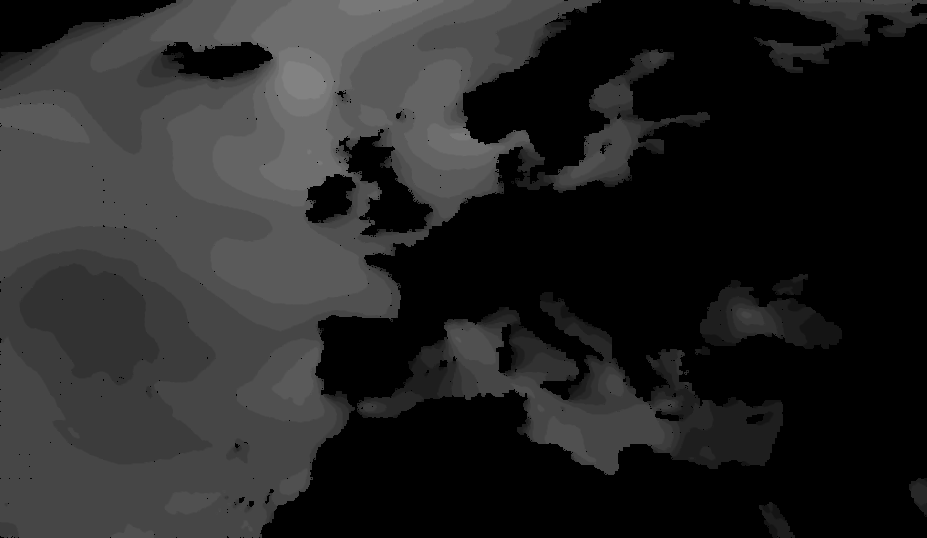
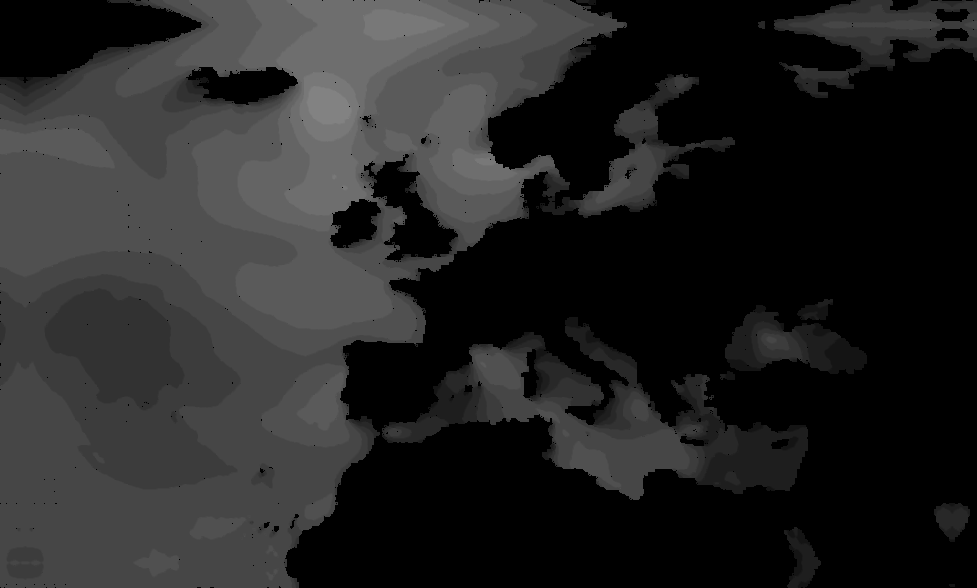
used linear_ramp padding for the plot

diff --git a/plot.py b/plot.py
@@ -13,6 +13,7 @@ def build_scale(raw):
     out = []
     out_temp = []
     r_last = [-1,-1,-1]
+
     for r in raw:
         # filter out black and white and check RGB not same as last
         if (not all(r > 250)
@@ -22,13 +23,18 @@ def build_scale(raw):
                 out_temp = r.copy()
             else: 
                 out_temp = np.vstack((out_temp,r))
+
             if len(out_temp) > len(out): 
                 out = out_temp.copy()
             r_last = r.copy()
             bw_count = 0
+
         elif all(r > 250) or all(r < 5):
             bw_count += 1
+
     return out
+
+
 def lrtb(image):
     # input: np array (x,y,3) - image with a black/white border
     # output: integers (4)    - top, bottom, left, right of the colorful area
@@ -50,14 +56,22 @@ def lrtb(image):
                 end = be
                 begin = temp
         return [begin + offset, end + offset]
+    
+
     mask = np.zeros_like(image[:,:,0]).astype(bool)
+
     for i in range(3):
         mask = mask + np.multiply(image[:,:,i] > 10, image[:,:,i] < 245)
+
     l, r, t, b = 0, len(mask[0,:]) - 1, 0, len(mask[:,0]) - 1
+
     for i in range(3):
         [l,r] = bound(mask[t:b+1,l:r+1],l)
         [t,b] = bound(mask[t:b+1,l:r+1].T,t)
+
     return [l,r,t,b]
+
+
 def edge_mean(plt):
     # input: np array (x,y)   - grayscale plot
     # output: float           - average boundary value
@@ -65,26 +79,35 @@ def edge_mean(plt):
     border = np.concatenate((border,plt[-1,:]))
     border = np.concatenate((border,plt[:,0]))
     border = np.concatenate((border,plt[:,-1]))
+
     return 0
+
+
 def gen(image, scale):
     # input: np array (x,y,3) - image with RGB values
     # input: np array (x,3)   - scale of RGB values in order of magnitude
     # output: np array (x,y)  - grayscale plot with values centered at zero
     l,r,t,b = lrtb(image)
     out = np.zeros_like(image[t:b,l:r,0])
+
     for i in range(len(scale)):
         mask = out == 0
         for j in range(3): 
             mask = np.multiply(mask, abs(image[t:b,l:r,j] - scale[i,j]) < 25)
         out = out + (mask.astype(int) * (i + 1))
         cv.imwrite('./debug/yaml_test_plt_' + str(i) + '.png', 5 * (out - np.min(out)))
+
     out = out - edge_mean(out)
+
     return out
+
+
 def smooth(plt, repeat):
     # input: np array (x,y) - grayscale plot
     # input: int            - number of times to repeat the smoothing fn
     out = np.array(plt - np.min(plt))
     cv.imwrite('./debug/yaml_test_smooth_raw.png', 10 * out)
+
     for r in range(repeat):
         tmp = np.pad(
             out[1:plt.shape[0]-1, 1:out.shape[1]-1],
@@ -94,18 +117,24 @@ def smooth(plt, repeat):
         )
         add = np.zeros_like(out).astype(np.float64)
         cnt = np.zeros_like(out).astype(np.float64)
+
         for (i,j) in [(1,0),(1,1),(-1,0),(-1,0),(-1,1),(-1,1),(1,0)]:
             tmp = np.roll(tmp, i, axis = j)
             add = add + tmp
             cnt = (cnt + np.array(tmp != 0).astype(type(cnt[0,0])))
+
         add = np.divide(add, cnt, out = np.zeros_like(add), where=cnt!=0)
         mask = np.array(out == 0).astype(np.float64)
         out = out + np.multiply(add, mask)
-        # debug images
+
         cv.imwrite('./debug/yaml_test_add_' + str(r) + '.png', 10 * (add - np.min(add)))
         cv.imwrite('./debug/yaml_test_cnt_' + str(r) + '.png', 10 * (cnt - np.min(cnt)))
+
     out = out - edge_mean(out)
+
     return out
+
+
 def restore(plt, template, scale, dtg):
     # input: np array (x,y)   - grayscale plot
     # input: string           - template name
@@ -121,30 +150,36 @@ def restore(plt, template, scale, dtg):
     var = 25
     x_p, y_p = plt.shape
     mask = np.ones_like(out[:,:,0]).astype(int)
+
     for i in range(3):
         mask = np.multiply(
             mask,
             np.array(abs(out[:,:,i].astype(int) - mt[i]) < var).astype(int)
         )
     plt_color = np.zeros((x_p,y_p,3)).astype(np.uint8)
+
     for j in range(len(scale))[1:]:
         for i in range(3):
             plt_color[:,:,i] += np.array(plt == j).astype(np.uint8) * scale[j, i]
+
     plt_color = cv.resize(plt_color, out[t:b,l:r,0].shape[::-1])
+
     for i in range(3):
         out[t:b,l:r,i] = (
             np.multiply(mask[t:b,l:r] == 0 ,out[t:b,l:r,i]) 
             + np.multiply(mask[t:b,l:r], plt_color[:,:,i])
         )
         cv.imwrite("./debug/yaml_test_img_" + str(i) + ".png", out)
-    if t < y - b:
-        y_text = b + (y - b)//2
+
+    if t < x - b:
+        x_text = b + (x - b)//2
     else:
-        y_text = t//2
+        x_text = t//2
+
     out = cv.putText(
         out, 
-        template+" - "+dtg, 
-        (l, y_text + 5),
+        template + " - " + dtg, 
+        (l, x_text + 5),
         cv.FONT_HERSHEY_SIMPLEX,
         .5,
         (0,0,0),
@@ -152,4 +187,5 @@ def restore(plt, template, scale, dtg):
         cv.LINE_AA,
         False
     )
+
     return out

diff --git a/textCompression.py b/textCompression.py
@@ -3,6 +3,8 @@ import numpy as np
 def char_list():
     out = '0123456789ABCDEFGHIJKLMNOPQRSTUVWXYZ'
     return out
+
+
 def month_name(m):
     if m == 1: return "JAN"
     elif m == 2: return "FEB" 
@@ -17,16 +19,19 @@ def month_name(m):
     elif m == 11: return "NOV" 
     elif m == 12: return "DEC"
     else: return None
+
+
 def dft_mapping(n):
     # input: int - number of one side of coefficients
     # output: array of addresses where to put dft coefficients
     # save all coefficients to a single flattened array organized by:
-    # 1 2 3 ...
-    # 2 2 3 ...
-    # 3 3 3 ...
+    # 1 1 2 2 3 3 ...
+    # 2 2 2 2 3 3 ...
+    # 3 3 3 3 3 3 ...
     # This organization will assist with maximum compression of the follow 
     # on message map all the addresses in the order you want them.
     out = [[0,0],[0,1]]
+
     for k in range(1,n):
         j = k
         for i in range(k):
@@ -36,35 +41,49 @@ def dft_mapping(n):
             out.append([j, 2 * i + 1])
         out.append([k, 2 * k])
         out.append([k, 2 * k + 1])
+
     return out
+
 
 def coeff_round(x):
     # input: int - number between -1000 and 1000
     # output: int - number between 0 and len(char_list)
-    if abs(x) > 1000: 
-        return 0
+    if abs(x) > 1000: return 0
+
     out = 0
     m_int = 1000
     m_char = (len(char_list()) - 1) // 2
     dx = np.log10(m_int) / m_char
+
     if x < 0: offset = 1
     else: offset = 0
+
     x_log = np.log10(abs(x))
+
     for i in range(1,m_char):
         if (i)*dx < x_log and x_log <= (i+1)*dx: out = i * 2
+
     return int(out + offset)
+
+
 def coeff_unround(x):
     # input: int - number between 0 and len(char_list)
     # output: int - number between -1000 and 1000
     if x == 0 or x > len(char_list()): return 0
+
     out = 0
     m_int = 1000
     m_char = (len(char_list()) - 1) // 2
     dx = np.log10(m_int) / m_char
     offset = x % 2
+
     out = 10 ** ((((x-offset)/2)+1)*dx)
+
     if offset == 1: out = out * (-1)
+
     return out
+
+
 def change_basis(num,b1,b2):
     # Convert num in base b1 to a number in base b2
     # input: int array - an array of integers representing the digits in
@@ -76,16 +95,21 @@ def change_basis(num,b1,b2):
     exp = 1
     # check for leading zeros
     lead_zeros = 0
+
     for n in num[::-1]:
         if n == 0: lead_zeros += 1
         else: lead_zeros = 0
         dec = dec + (n * exp)
         exp = exp * b1
+    
     while dec > 0:
         out.append(dec % b2)
         dec = (dec - (dec % b2)) // b2
+
     for i in range(lead_zeros): out.append(0)    
+
     return out[::-1]
+
 
 def msgdata_write(dft,n):
     # input: float array - DFT
@@ -97,14 +121,17 @@ def msgdata_write(dft,n):
     chars = char_list()
     x, y = dft.shape[:2]
     out = ''
+
     for [i,j] in dft_address:
         i1 = [i,x-i-1]
         for i2 in i1:
             dft_flat.append(coeff_round(dft[i2,j]))
+    
     beg = 0
     end = 2
     dump = False
     line_cap = '\n'
+
     while beg < len(dft_flat):
         if end >= len(dft_flat):
             line_cap = '/\n'
@@ -126,12 +153,16 @@ def msgdata_write(dft,n):
             end += 1
             dump = False
         end += 1
+
     return out
+
+
 def msgdata_read(msg):
     # input: string - VLF ARGUS message
     # output: float array - DFT
     header, footer = True, False
     chars = char_list()
+
     for m in msg.splitlines():
         if header:
             if 'A1R1G2U3S5' in m:
@@ -143,6 +174,7 @@ def msgdata_read(msg):
                 dft = np.zeros((x,y))
                 dft_address = dft_mapping(n)
                 dft_flat = []
+
         elif not footer:
             m_d = chars.find(m[0])
             line_int = []
@@ -155,10 +187,12 @@ def msgdata_read(msg):
             with open("./debug/DFT_flat_read.txt",'w') as file: 
                 print(dft_flat, file = file)
     k = 0
+
     for [i,j] in dft_address:
         i1 = [i,x-i-1]
         for i2 in i1:
             dft[i2,j] = coeff_unround(dft_flat[k])
             print(str(i2) + ", " + str(j) + ", " + str(dft_flat[k]))
             k += 1
+            
     return dft, max_coeff, template, dtg

diff --git a/test.py b/test.py
@@ -5,40 +5,56 @@ import plot
 import textCompression as tc
 
 test = 0
+
 n = 15
+padding = 25
 
 if test == 0:
     image = imageio.mimread('./examples/EUCOM.gif')
     image = [cv.cvtColor(img, cv.COLOR_RGB2BGR) for img in image][0]
+
     scale = plot.build_scale(image[65,:,:])
+
     plt = plot.gen(image, scale)
-    max_coeff = int(np.max(plt - np.min(plt)) - 1)
+    plt = np.pad(plt, pad_width = padding, mode='symmetric')
     cv.imwrite('./debug/yaml_test_plt_raw.png', (plt - np.min(plt)) * (200 / np.max(plt * 2)))
     plt = plot.smooth(plt,2)
     cv.imwrite('./debug/yaml_test_plt_smooth.png', (plt - np.min(plt)) * (200 / np.max(plt * 2)))
+    max_coeff = int(np.max(plt - np.min(plt)) - 1)
+
     dft = cv.dft(cv.resize(plt,(plt.shape[1]//1,plt.shape[0]//1)))
+    dft = dft * (1000/np.max(np.abs(dft)))
+
     dft_view = np.log(np.abs(dft))
     dft_view[dft_view < 0] = 0
     cv.imwrite('./debug/yaml_test_dft.png', dft_view * (200 / np.max(dft_view)))
-    dft = dft * (1000/np.max(np.abs(dft)))
+
     msg_data = tc.msgdata_write(dft,n)
-    None
+
     print("")
     print("")
+
     msg_data = '538/927/'+ str(n) + '/' + str(max_coeff) + '/000000ZJAN25/EUCOM/A1R1G2U3S5/\n' + msg_data
+
     dft_out, max_coeff, template, dtg = tc.msgdata_read(msg_data)
+
     dft_out_view = np.log(np.abs(dft_out))
     dft_out_view[dft_out_view < 0] = 0
     cv.imwrite('./debug/yaml_test_dft_out.png', dft_out_view * (200 / np.max(dft_out_view)))
+
     plt_out = cv.idft(dft_out)
     plt_out[plt_out < 0] = 0
     plt_out = (plt_out) * (max_coeff / np.max(plt_out))
+    plt_out = plt_out[padding:-1*padding,padding:-1*padding]
     plt_out = np.round(plt_out).astype(int)
     cv.imwrite("./debug/yaml_test_idft.png", (plt_out - np.min(plt_out)) * (200 / np.max(plt_out * 2)))
+
     print(msg_data)
     print(len(msg_data))
+
     img = plot.restore(plt_out,template,scale,dtg)
     cv.imwrite("./debug/yaml_test_img.png", img)
+    
     None
 
 if test == 1:
